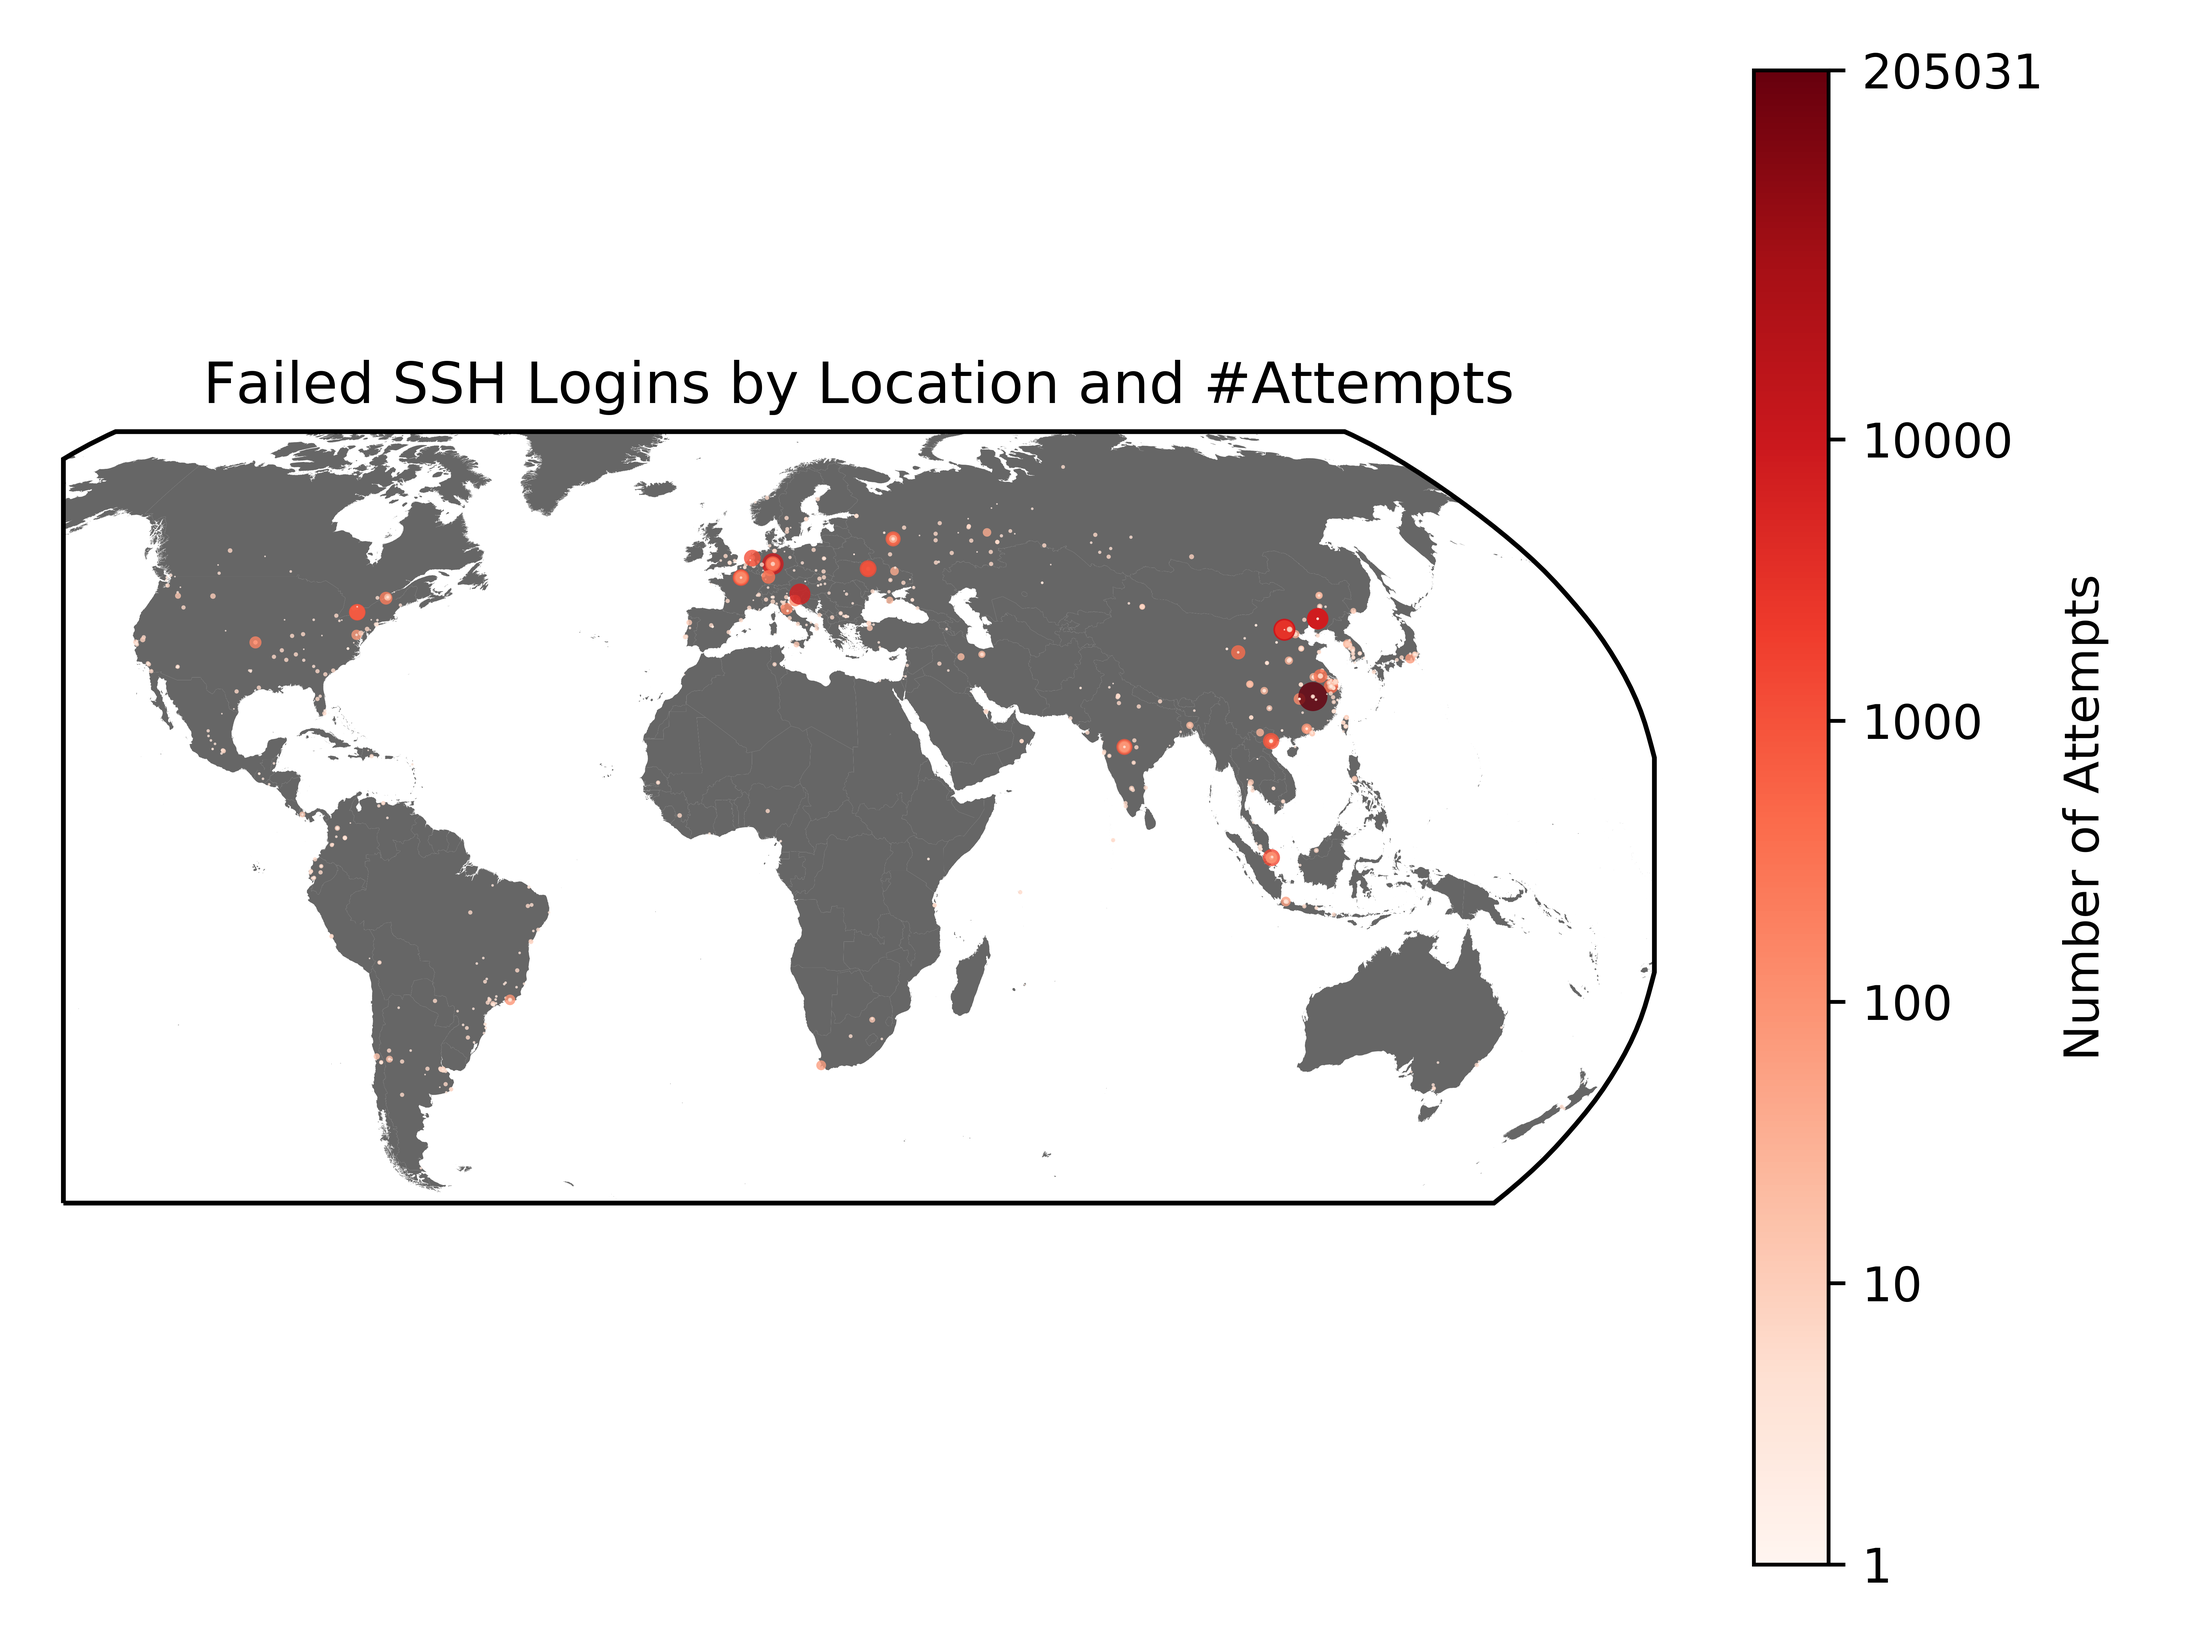
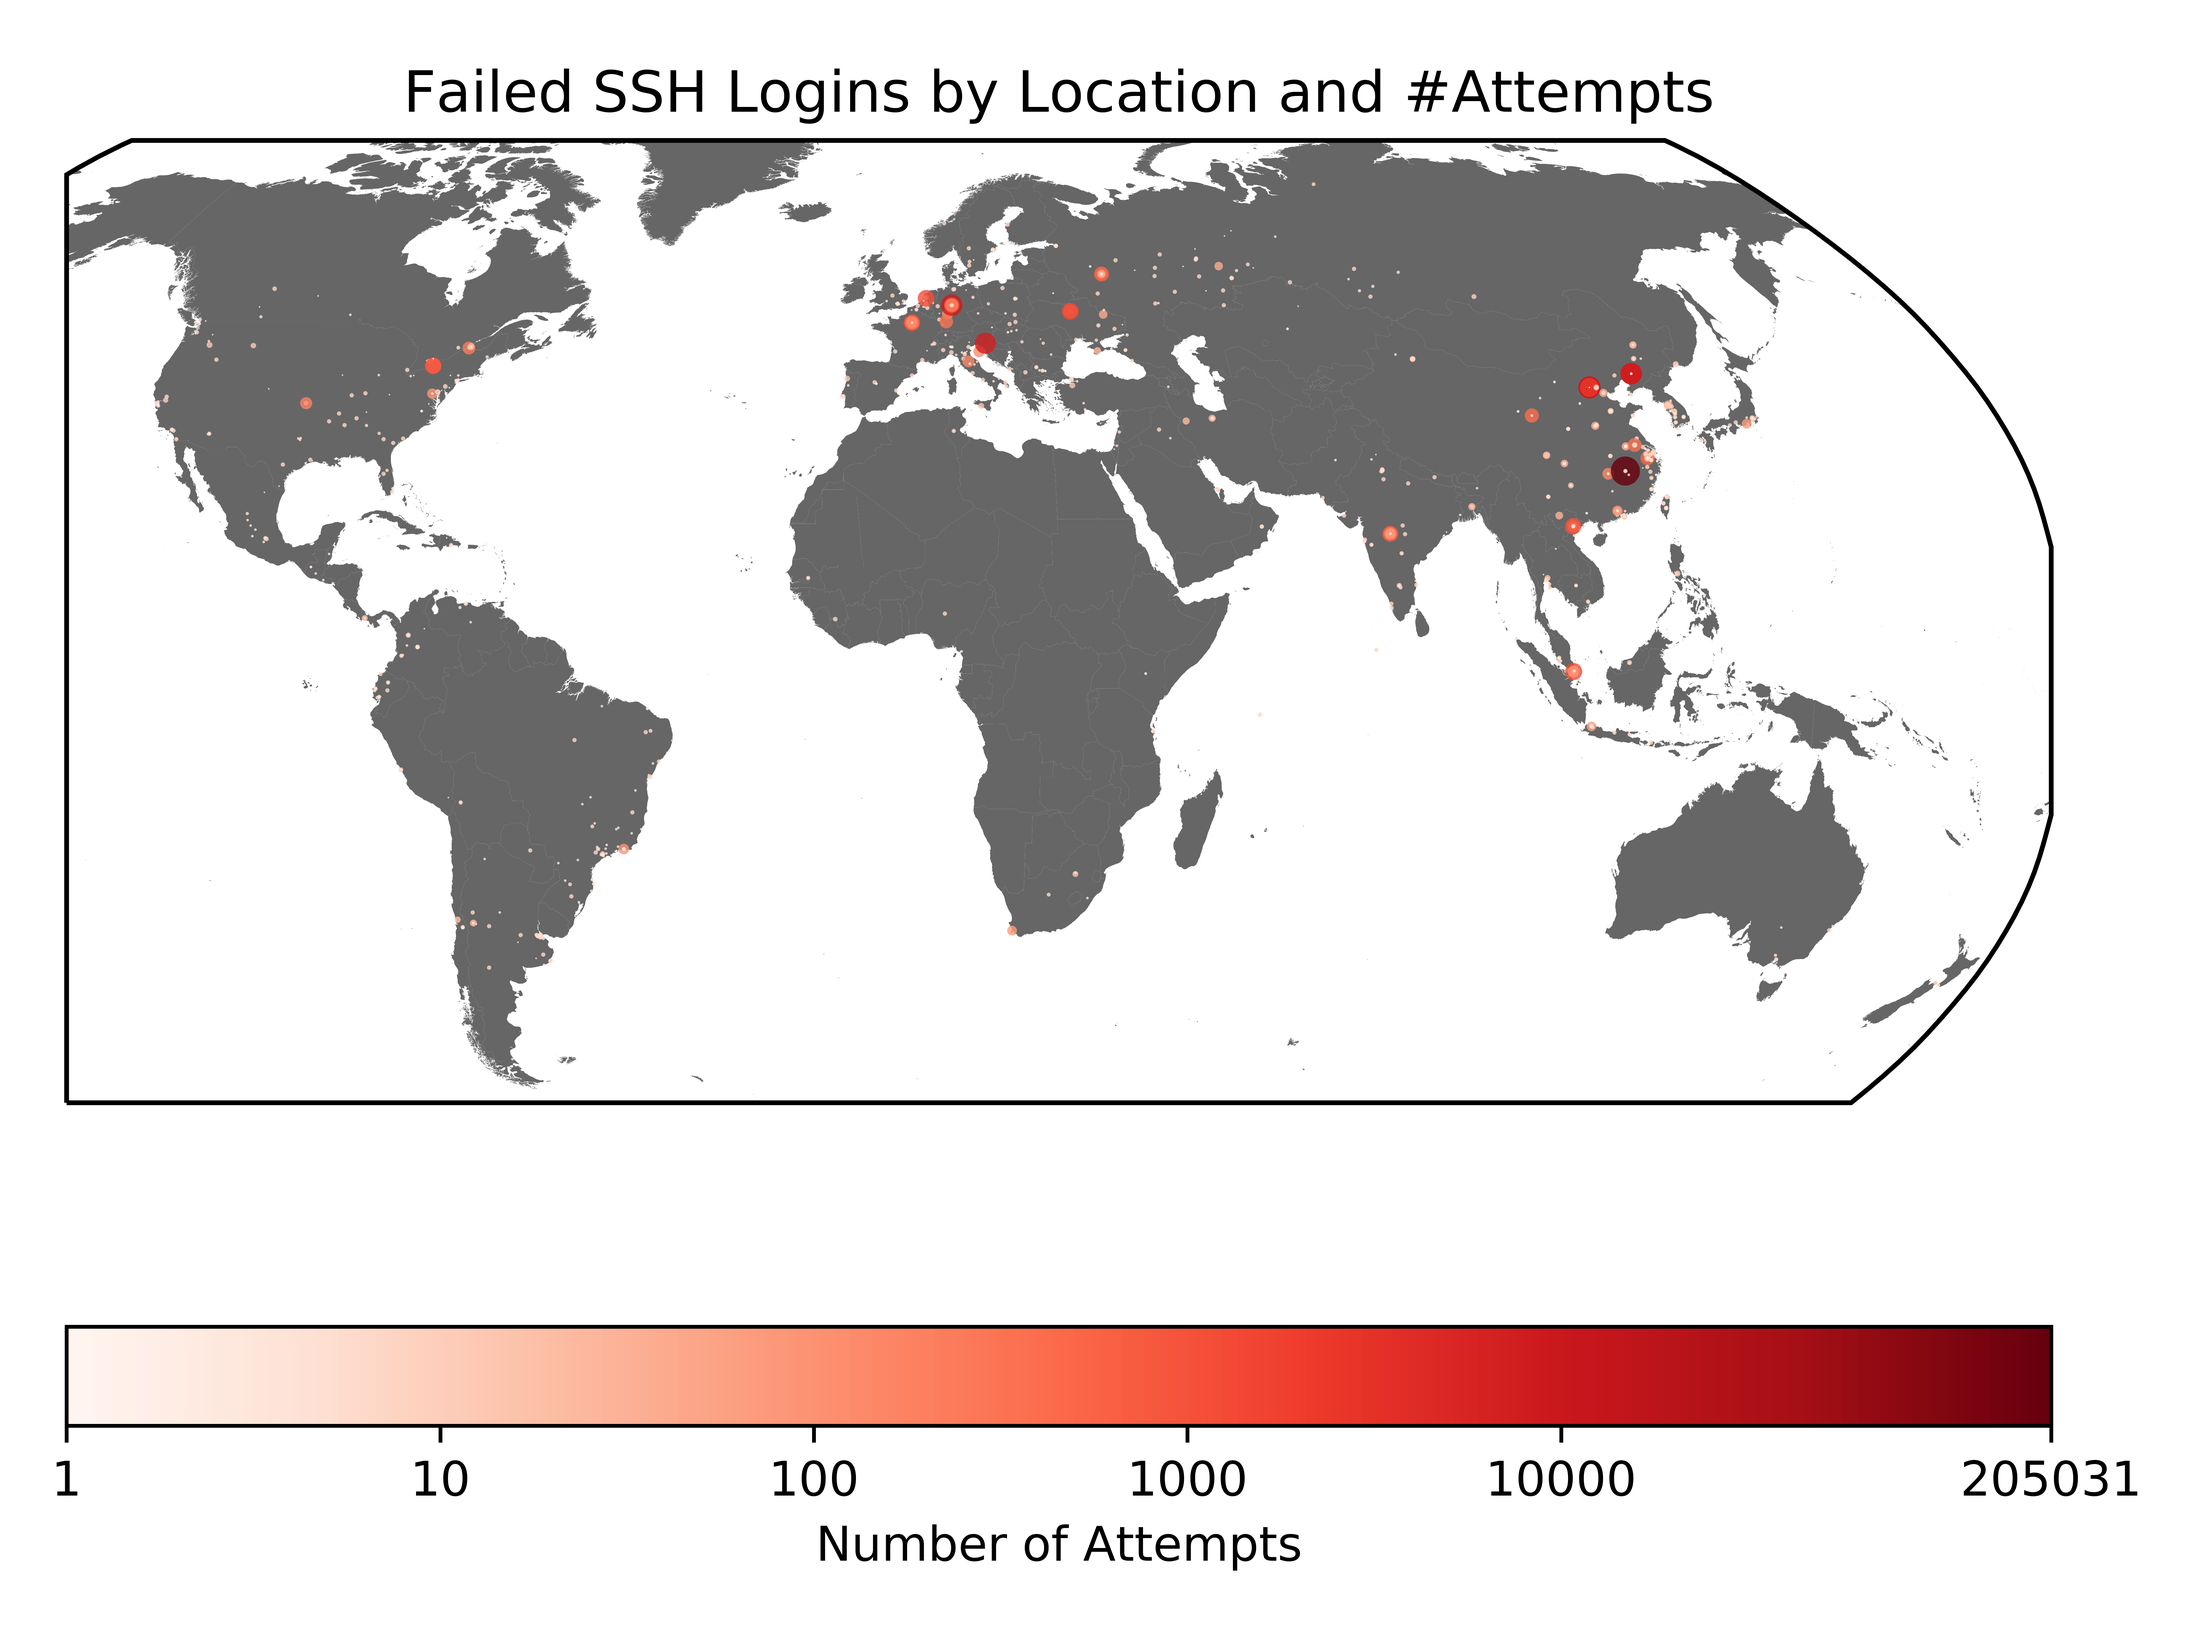
Changed Legend Position

diff --git a/ip-map.py b/ip-map.py
@@ -108,8 +108,10 @@ def draw_map(filename):
     # Legend
     sm = plt.cm.ScalarMappable(cmap=colormap,norm=mpl.colors.LogNorm(1,max_failed))
     sm._A = []
-    colorbar = plt.colorbar(sm,ax=ax,ticks=[10**i for i in range(0, round(math.log10(max_failed)))]+[max_failed], format='%.0f')
-    colorbar.ax.set_ylabel('Number of Attempts', rotation=90)
+    colorbar = plt.colorbar(sm,ax=ax,orientation='horizontal',ticks=[10**i for i in range(0, round(math.log10(max_failed)))]+[max_failed], format='%.0f')
+    colorbar.ax.set_xlabel('Number of Attempts')
+
+
     plt.title("Failed SSH Logins by Location and #Attempts")
     plt.tight_layout()
     plt.savefig(filename, dpi=1000)
